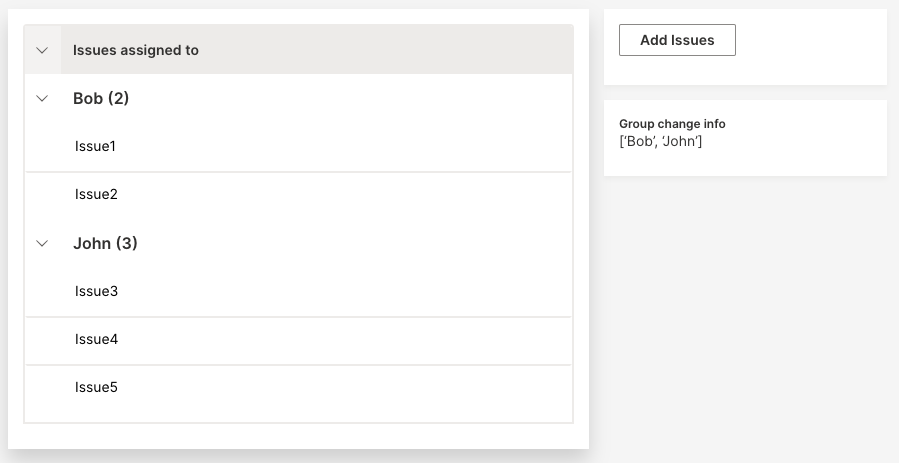
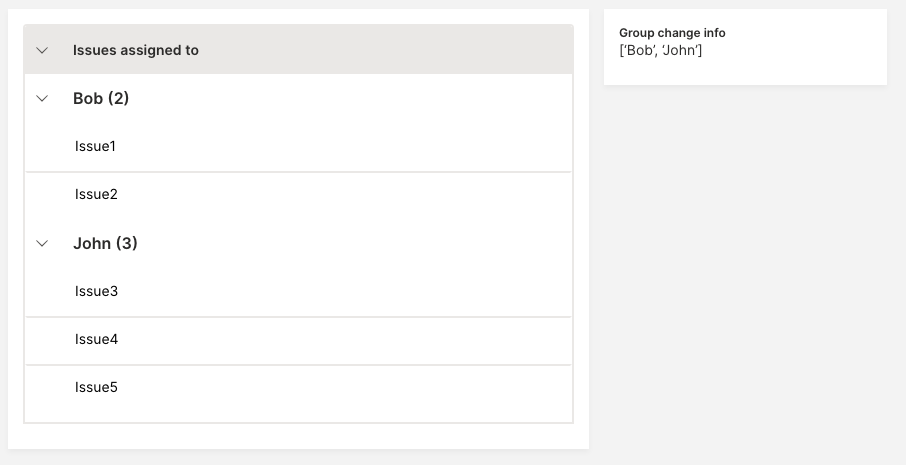
feat: Changes from review comments, simplify if-block in table.tsx, simplify py example and generate new snapshot, doc edits #2133

diff --git a/ui/src/table.tsx b/ui/src/table.tsx
@@ -493,17 +493,11 @@ const
       }, []),
       onToggleCollapseAll = (isAllCollapsed: B) => {
         if (m.events?.includes('group_change')) {
-          let changingGroups 
-          if (isAllCollapsed){
-            if (expandedRefs.current && Object.keys(expandedRefs.current).length > 0){
-              changingGroups = Object.keys(expandedRefs.current)
-            } else {
-              changingGroups = groups?.map(group => group.name)
-            }
-          } else {
-            changingGroups = groups?.map(group => group.name)
-          }
-          wave.emit(m.name, 'group_change', changingGroups)
+          const changedGroups =
+            isAllCollapsed && expandedRefs.current && Object.keys(expandedRefs.current).length > 0
+              ? Object.keys(expandedRefs.current)
+              : groups?.map(group => group.name)
+          wave.emit(m.name, 'group_change', changedGroups)
         }
         expandedRefs.current = isAllCollapsed ? {} : null       
       },

diff --git a/py/examples/table_events_group.py b/py/examples/table_events_group.py
@@ -1,10 +1,7 @@
 # Table / Events / Group
 # Register the `group_change` #event to emit Wave event when group collapses or opens.
-# #table #events #groups #background_tasks
+# #table #events #groups
 # ---
-import asyncio
-import concurrent.futures
-import time
 from h2o_wave import main, app, Q, ui
 
 bobrows = [
@@ -16,54 +13,19 @@ johnrows = [
     {"name":"row4", "cell":"Issue4"},
     {"name":"row5", "cell":"Issue5"},
 ]
-issue_cnt = 5
 
 collapsed_states = {
     'Bob': True,
     'John': False
 }
-stop = False
-new_issues_label = 'Add Issues'
-
-def add_issues_function(q: Q, loop: asyncio.AbstractEventLoop):
-    global stop
-    stop = False
-    future = None
-    while not stop:
-        time.sleep(2)
-        if not future or future.done():
-            future = asyncio.ensure_future(update_issues(q), loop=loop)
-
-async def update_issues(q: Q):
-    global issue_cnt
-    issue_cnt += 1
-    if (issue_cnt % 2) == 0:
-        bobrows.append({"name":"row"+str(issue_cnt), "cell":"Issue"+str(issue_cnt)})
-    else:
-        johnrows.append({"name":"row"+str(issue_cnt), "cell":"Issue"+str(issue_cnt)})   
-    update_table_groups(q)
-    await q.page.save()       
-
 
 @app('/demo')
 async def serve(q: Q):
-    global issue_cnt, new_issues_label, stop
     if q.events.issues_table and q.events.issues_table.group_change:
         # toggle the collapse states
         for group in q.events.issues_table.group_change:
              collapsed_states[group] = not collapsed_states[group]
         q.page['collapse'].content = f'{q.events.issues_table.group_change}'
-    elif q.args.add_issues: 
-        if new_issues_label == 'Add Issues':
-            new_issues_label = 'Stop Adding'
-            q.page['add_issues'].add_issues.label = new_issues_label           
-            loop = asyncio.get_event_loop()  
-            with concurrent.futures.ThreadPoolExecutor() as pool:
-                await q.exec(pool, add_issues_function, q, loop)
-        else:
-            stop = True
-            new_issues_label = 'Add Issues'
-            q.page['add_issues'].add_issues.label = new_issues_label
     else: 
         q.page['form'] = ui.form_card(box='1 1 4 5', items=[
             ui.table(
@@ -88,27 +50,8 @@ async def serve(q: Q):
                 events=['group_change']
             )
         ])
-        q.page['add_issues'] = ui.form_card(box='5 1 2 1', items=[ui.button(name='add_issues', label=new_issues_label)])
-        q.page['collapse'] = ui.markdown_card(box='5 2 2 1', title='Group change info', content='')
+        q.page['collapse'] = ui.markdown_card(box='5 1 2 1', title='Group change info', content='')
 
         q.client.initialized = True
 
     await q.page.save()
-
-def update_table_groups(q: Q):
-        q.page['form'].issues_table.groups=[
-                    ui.table_group("Bob", 
-                                   rows=[ui.table_row(
-                                         name=row["name"],
-                                         cells=[row["cell"]])
-                                    for row in bobrows], 
-                                    collapsed=collapsed_states["Bob"]                               
-                    ),
-                    ui.table_group("John", 
-                                   rows=[ui.table_row(
-                                         name=row["name"],
-                                         cells=[row["cell"]])
-                                    for row in johnrows],
-                                    collapsed=collapsed_states["John"]                                
-                    ),
-        ]

diff --git a/website/widgets/form/table.md b/website/widgets/form/table.md
@@ -401,7 +401,7 @@ q.page['example'] = ui.form_card(box='1 1 3 4', items=[
 
 ### With collapsed groups
 
-Groups are shown in a collapsed state by default. With the `collapsed` attribute you can change this behavior. You also can keep track of the collapsed states by registering a `'group_change'` [event](/docs/examples/table-events-group) (populated in `q.events`). This is useful when needing to refresh the table.
+Groups are shown in a collapsed state by default. With the `collapsed` attribute you can change this behavior. You can also keep track of the collapsed states by registering a `'group_change'` [event](/docs/examples/table-events-group) (populated in `q.events`). This is useful when needing to refresh the table and persist collapsed states.
 
 ```py
 q.page['example'] = ui.form_card(box='1 1 3 4', items=[
